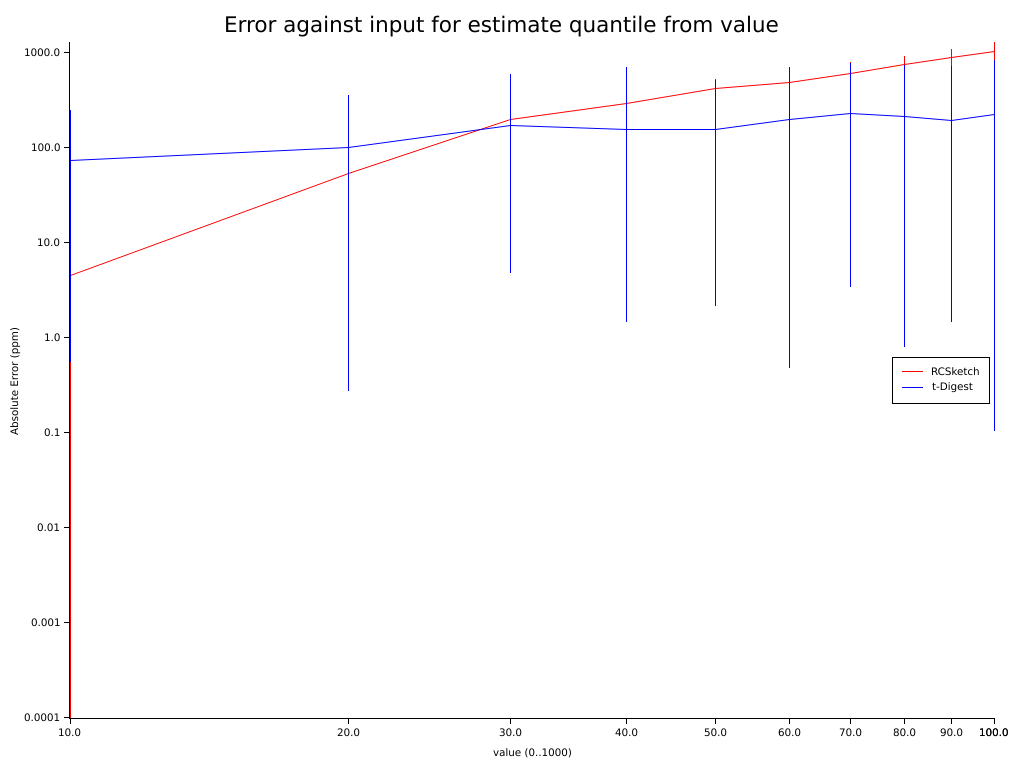
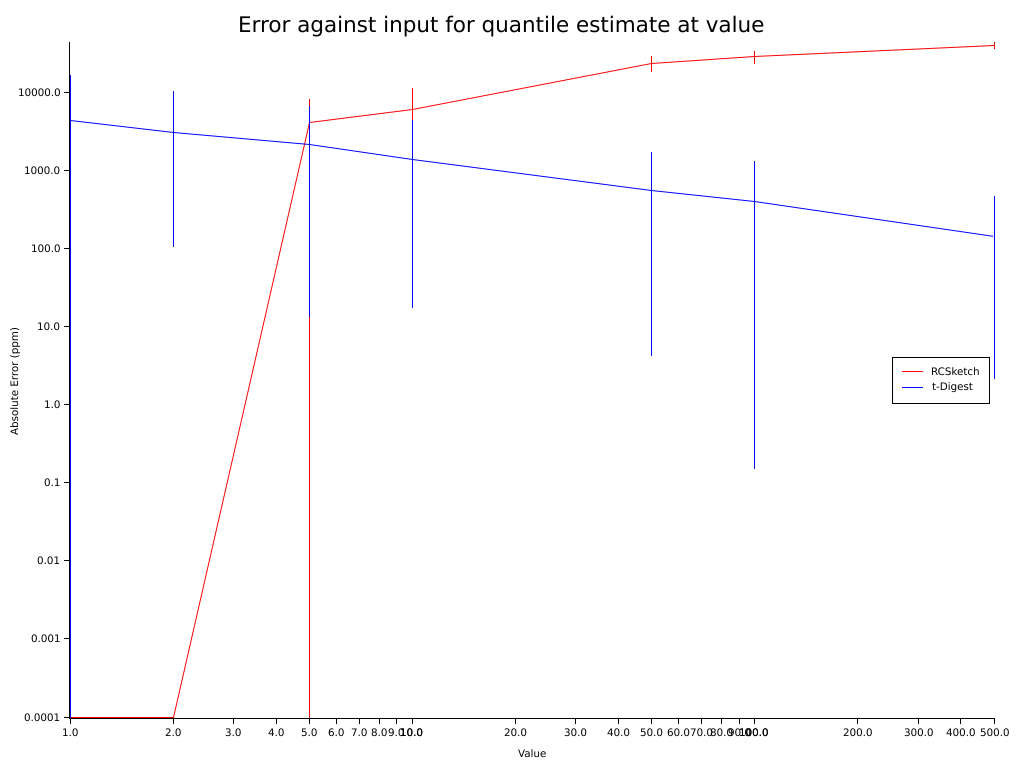
Plot error against quantile estimate from value

diff --git a/examples/accuracy.rs b/examples/accuracy.rs
@@ -71,6 +71,12 @@ where
             s.datapoints
                 .iter()
                 .map(|dp| {
+                    // println!(
+                    //     "{:?}",
+                    //     dp.1.iter()
+                    //         .map(|x| x.to_f64().unwrap())
+                    //         .collect::<Vec<f64>>()
+                    // );
                     dp.1.iter()
                         .min_by(|a, b| a.partial_cmp(&b).unwrap())
                         .unwrap()
@@ -306,7 +312,7 @@ where
 //     })
 // }
 
-fn error_against_quantile<T>()
+fn value_error_against_quantile<T>()
 where
     T: Float + Send + Sync + NumAssignOps,
 {
@@ -338,7 +344,7 @@ where
     let mut s = Vec::new();
     for i in &[1e-6, 1e-5, 1e-4, 1e-3, 1e-2, 1e-1, 0.5] {
         let accuracy_measurements = sample_digest_accuracy(
-            create_rcsketch(T::from(50.0).unwrap()),
+            create_rcsketch(T::from(20.0).unwrap()),
             || gen_uniform_tan_vec(100_000),
             test_func(T::from(*i).unwrap()),
             |a, b| relative_error(a, b) * T::from(1e6).unwrap(),
@@ -357,7 +363,7 @@ where
     let mut s = Vec::new();
     for i in &[1e-6, 1e-5, 1e-4, 1e-3, 1e-2, 1e-1, 0.5] {
         let accuracy_measurements = sample_digest_accuracy(
-            create_t_digest(T::from(2000.0).unwrap()),
+            create_t_digest(T::from(3000.0).unwrap()),
             || gen_uniform_tan_vec(100_000),
             test_func(T::from(*i).unwrap()),
             |a, b| relative_error(a, b) * T::from(1e6).unwrap(),
@@ -383,6 +389,84 @@ where
     .unwrap();
 }
 
+fn quantile_error_against_value<T>()
+where
+    T: Float + Send + Sync + NumAssignOps,
+{
+    let test_func =
+        |value: T| move |digest: &mut dyn Digest<T>| digest.est_quantile_at_value(value);
+
+    let create_rcsketch = |accuracy_param: T| {
+        move |dataset: &[T]| {
+            let mut digest = RCSketch::new(dataset.len(), accuracy_param.to_usize().unwrap());
+            digest.add_buffer(dataset);
+            digest
+        }
+    };
+
+    let create_t_digest = |compression_param: T| {
+        move |dataset: &[T]| {
+            let mut digest = TDigest::new(
+                &scale_functions::k2,
+                &scale_functions::inv_k2,
+                compression_param,
+            );
+            digest.add_buffer(dataset);
+            digest
+        }
+    };
+
+    let test_values = [1.0, 2.0, 5.0, 10.0, 50.0, 100.0, 500.0];
+    let mut series = Vec::new();
+
+    let mut s = Vec::new();
+    for i in &test_values {
+        let accuracy_measurements = sample_digest_accuracy(
+            create_rcsketch(T::from(20.0).unwrap()),
+            || gen_uniform_vec(100_000),
+            test_func(T::from(*i).unwrap()),
+            |a, b| relative_error(a, b) * T::from(1e6).unwrap(),
+            100,
+        )
+        .unwrap();
+        s.push((T::from(*i).unwrap(), accuracy_measurements));
+    }
+
+    series.push(Line {
+        name: "RCSketch".to_string(),
+        datapoints: s,
+        colour: &RED,
+    });
+
+    let mut s = Vec::new();
+    for i in &test_values {
+        let accuracy_measurements = sample_digest_accuracy(
+            create_t_digest(T::from(3000.0).unwrap()),
+            || gen_uniform_vec(100_000),
+            test_func(T::from(*i).unwrap()),
+            |a, b| relative_error(a, b) * T::from(1e6).unwrap(),
+            100,
+        )
+        .unwrap();
+        s.push((T::from(*i).unwrap(), accuracy_measurements));
+    }
+
+    series.push(Line {
+        name: "t-Digest".to_string(),
+        datapoints: s,
+        colour: &BLUE,
+    });
+
+    plot_line_graph(
+        "Error against input for quantile estimate at value",
+        series,
+        &Path::new("plots/acc_vs_input_est_quantile_from_value.png"),
+        "Value",
+        "Absolute Error (ppm)",
+    )
+    .unwrap();
+}
+
 fn plot_memory_usage_against_compression_parameter<T>()
 where
     T: Float + Sync + Send + NumAssignOps,
@@ -400,7 +484,7 @@ where
     };
 
     let mut series = Vec::new();
-    let comp_params: Vec<u32> = (0..16).map(|x| 1 << x).collect();
+    let comp_params: Vec<u32> = (1..16).map(|x| 1 << x).collect();
     let mut s = Vec::new();
     for comp_param in &comp_params {
         let x = create_rcsketch(&gen_uniform_vec(100_000), T::from(*comp_param).unwrap());
@@ -412,7 +496,7 @@ where
     }
 
     series.push(Line {
-        name: "RCSketch".to_string(),
+        name: "RCSketch, n = 10^6".to_string(),
         datapoints: s,
         colour: &RED,
     });
@@ -420,7 +504,11 @@ where
     let mut s = Vec::new();
     for comp_param in &comp_params {
         let x = create_rcsketch(&gen_uniform_vec(10000), T::from(*comp_param).unwrap());
-        println!("{}", x.owned_size());
+        println!(
+            "RC Digest with param {}: {} bytes",
+            comp_param,
+            x.owned_size()
+        );
         s.push((
             T::from(*comp_param).unwrap(),
             vec![T::from(x.owned_size()).unwrap()],
@@ -428,7 +516,7 @@ where
     }
 
     series.push(Line {
-        name: "RCSketch n = 10^4".to_string(),
+        name: "RCSketch, n = 10^4".to_string(),
         datapoints: s,
         colour: &RED,
     });
@@ -436,7 +524,11 @@ where
     let mut s = Vec::new();
     for comp_param in &comp_params {
         let x = create_t_digest(&gen_uniform_vec(100_000), T::from(*comp_param).unwrap());
-        println!("{}", x.owned_size());
+        println!(
+            "T digest with param {}: {} bytes",
+            comp_param,
+            x.owned_size()
+        );
         s.push((
             T::from(*comp_param).unwrap(),
             vec![T::from(x.owned_size()).unwrap()],
@@ -479,11 +571,21 @@ where
     //         ((measured - actual).abs() / actual.abs()).to_f64().unwrap()
     //     );
     // }
+    // if measured == actual {
+    //     return T::from(0.0).unwrap();
+    // }
+    println!(
+        "Error {} {} {}",
+        measured.to_f64().unwrap(),
+        actual.to_f64().unwrap(),
+        ((measured - actual).abs() / actual.abs()).to_f64().unwrap()
+    );
     (measured - actual).abs() / actual.abs()
 }
 
 fn main() {
-    error_against_quantile::<f64>();
+    value_error_against_quantile::<f32>();
+    quantile_error_against_value::<f32>();
     determine_required_parameter::<f32>();
     determine_required_parameter::<f64>();
     plot_memory_usage_against_compression_parameter::<f32>();
